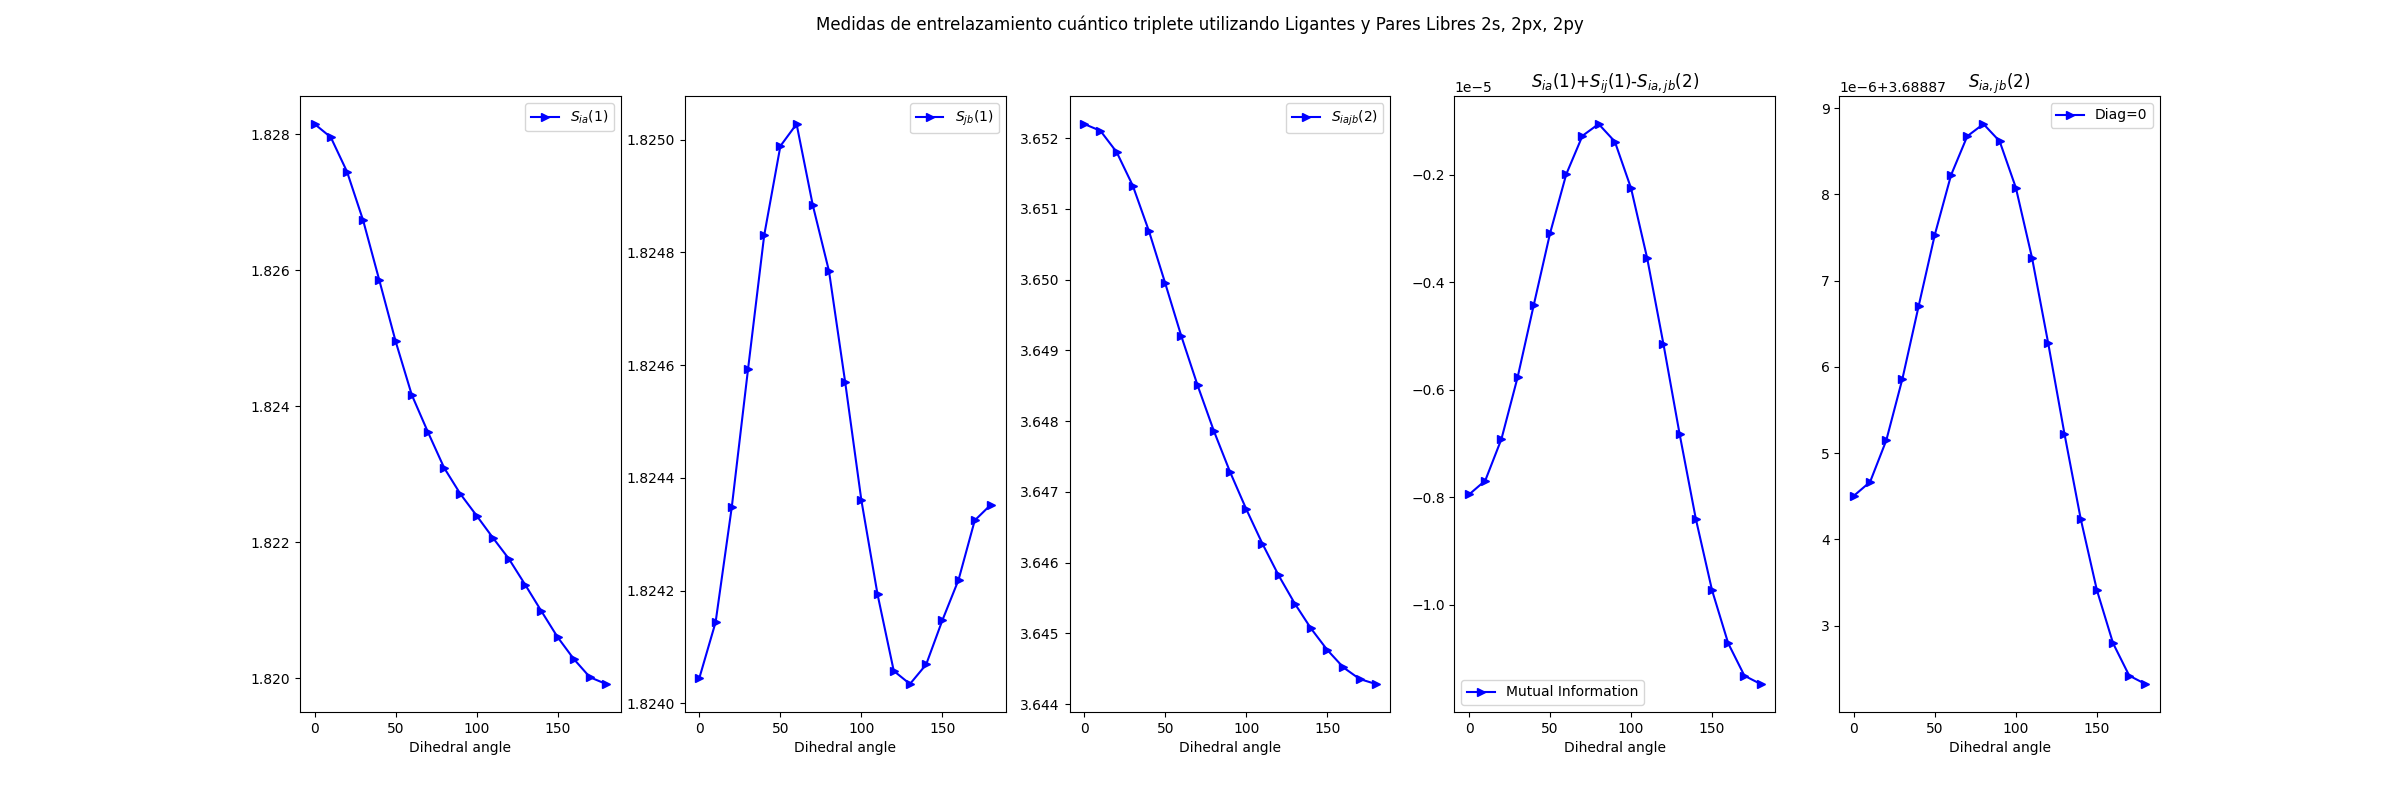
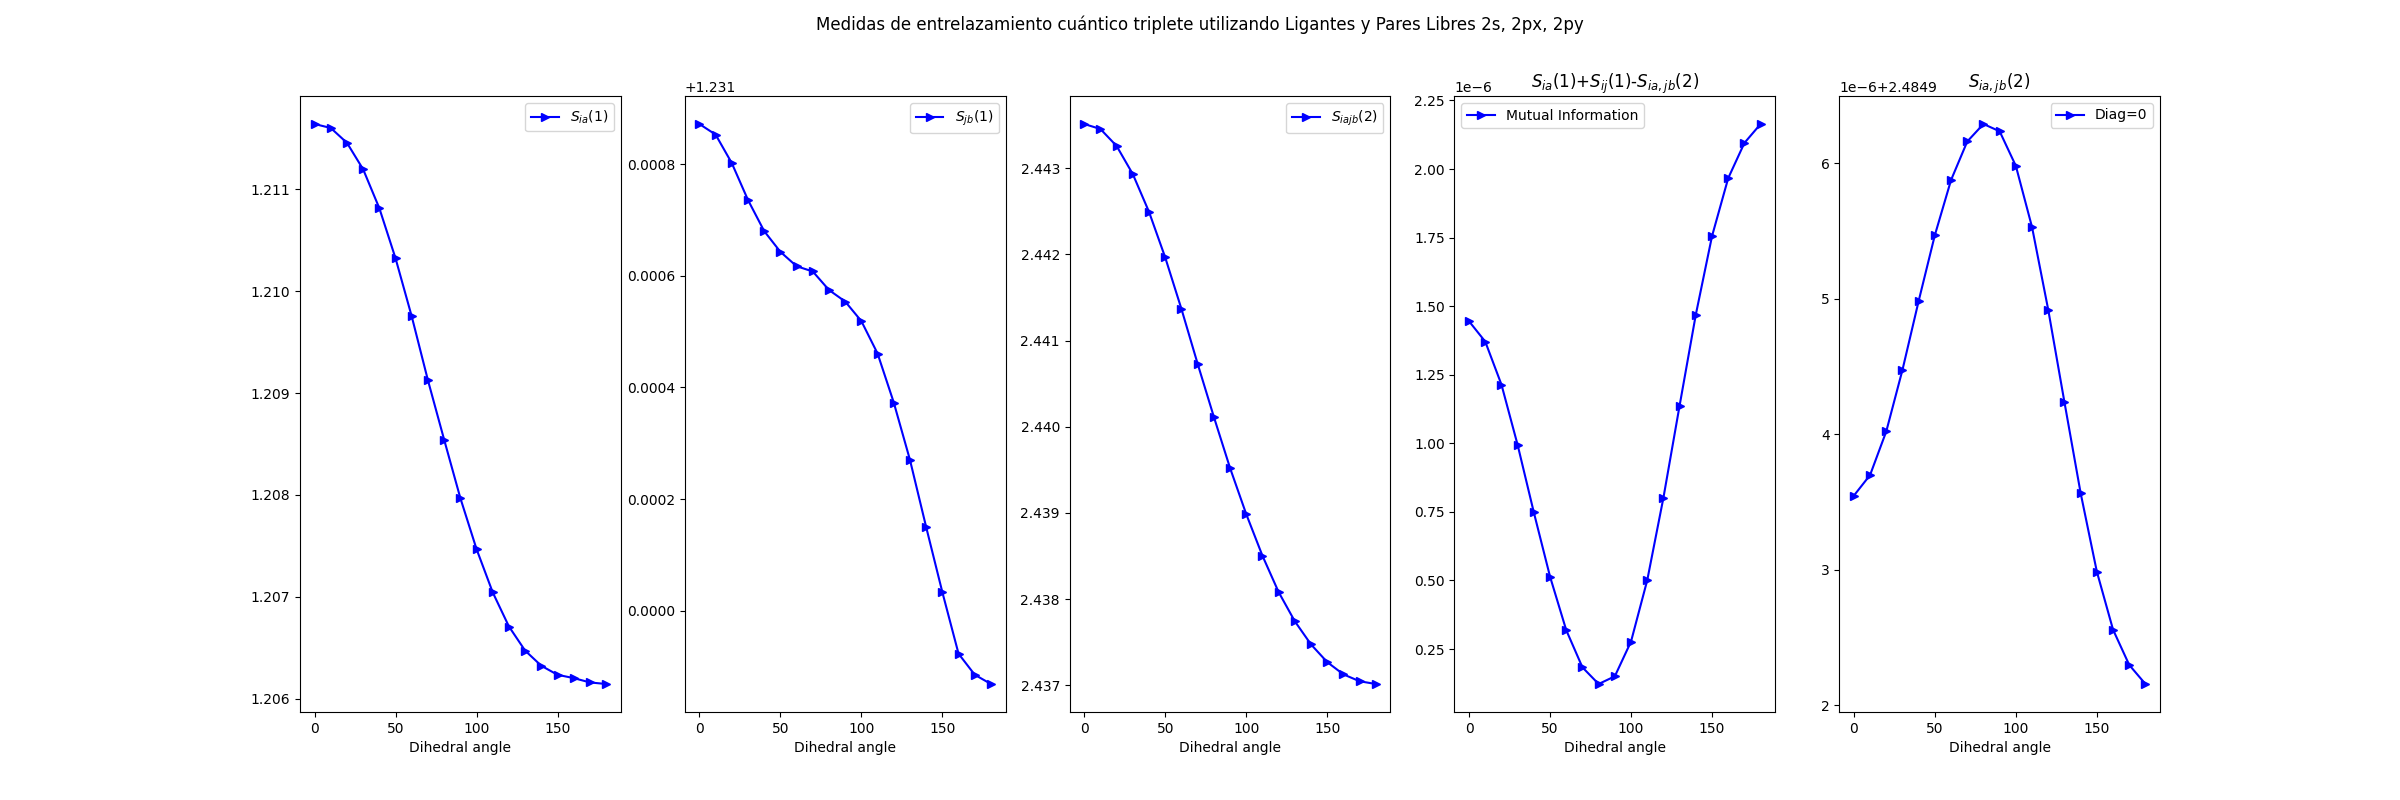
better graphs

diff --git a/C2H4F2_Pipek_becke/mutual_inf_C2H4F2_5columns.py b/C2H4F2_Pipek_becke/mutual_inf_C2H4F2_5columns.py
@@ -52,16 +52,16 @@ v5_2 = [46, 51, 50, 49, 50, 44, 50, 49, 51, 49, 51, 50, 51, 49, 48, 49, 49, 50, 
 for ang in range(0,19,1):
     mol, mo_coeff, mo_occ = extra_functions(molden_file=f"C2H4F2_{ang*10}_ccpvdz_Cholesky_PM.molden").extraer_coeff
 
-    occ = [lig1[ang], par_lib_1[ang],par_libx_1[ang], par_liby_1[ang],   
-           lig2[ang], par_lib_2[ang],par_libx_2[ang], par_liby_2[ang] ]
+    occ = [lig1[ang], par_lib_1[ang],#par_libx_1[ang], par_liby_1[ang],   
+           lig2[ang], par_lib_2[ang]]#,par_libx_2[ang], par_liby_2[ang] ]
     vir = [v1_1[ang],v2_1[ang], v3_1[ang], v4_1[ang], v5_1[ang],  
            v1_2[ang],v2_2[ang], v3_2[ang], v4_2[ang], v5_2[ang]]
     m_obj = M_matrix(occ=occ, vir=vir, mo_coeff=mo_coeff, mol=mol, mo_occ=mo_occ)
     ent_iajb = m_obj.entropy_ab  
-    ent_ia = m_obj.entropy_iaia
-    ent_jb = m_obj.entropy_jbjb
+    ent_ia = m_obj.entropy_iaia  
+    ent_jb = m_obj.entropy_jbjb  
     ent_iajb_diag0 = m_obj.entropy_iajb
-    mutual = ent_ia + ent_jb - ent_iajb
+    mutual = -ent_ia - ent_jb + ent_iajb
     with open(text, 'a') as f:
         f.write(f'{ang*10} {ent_ia} {ent_iajb} {ent_jb} {mutual} {ent_iajb_diag0} \n') 
 
@@ -85,13 +85,14 @@ ax3.set_xlabel('Dihedral angle')
 ax3.legend()
 ax4.plot(df.ang, df.mutual, 'b>-', label=r'Mutual Information') #f'a={orb1} b={orb2}')
 ax4.set_xlabel('Dihedral angle')
-ax4.set_title(r'$S_{ia}(1)$+$S_{ij}(1)$-$S_{ia,jb}(2)$')
+#ax4.set_title(r'$S_{ia}(1)$+$S_{ij}(1)$-$S_{ia,jb}(2)$')
+ax4.set_title('I')
 ax4.legend()
 ax5.plot(df.ang, df.diag0, 'b>-', label=r'Diag=0') #f'a={orb1} b={orb2}')
 ax5.set_xlabel('Dihedral angle')
 ax5.set_title(r'$S_{ia,jb}(2)$ ')
 ax5.legend()
 
-plt.suptitle(r'Medidas de entrelazamiento cuántico triplete utilizando Ligantes y Pares Libres 2s, 2px, 2py')#, 2p$_y$ y 2p$_z$')
-plt.savefig('C2H4F2_entanglement_triplet_lig_PL2s_2pxy.png')
+plt.suptitle(r'Quantum entanglement measures using lingants and free pairs')#, 2p$_y$ y 2p$_z$')
+plt.savefig('C2H4F2_entanglement_triplet__.png')
 plt.show()  

diff --git a/C2H4F2_Pipek_becke/mutual_inf_singlet_C2H4F2_5columns.py b/C2H4F2_Pipek_becke/mutual_inf_singlet_C2H4F2_5columns.py
@@ -52,8 +52,8 @@ v5_2 = [46, 51, 50, 49, 50, 44, 50, 49, 51, 49, 51, 50, 51, 49, 48, 49, 49, 50, 
 for ang in range(0,19,1):
     mol, mo_coeff, mo_occ = extra_functions(molden_file=f"C2H4F2_{ang*10}_ccpvdz_Cholesky_PM.molden").extraer_coeff
 
-    occ = [lig1[ang],par_liby_1[ang],par_libx_1[ang] ,# , ,    # lig1[ang] ,
-           lig2[ang],par_liby_2[ang],par_libx_2[ang]]#, par_libx_2[ang], par_liby_2[ang] ]  #  lig2[ang] ,
+    occ = [par_liby_1[ang],par_libx_1[ang],lig1[ang], par_lib_1[ang],# , ,    # lig1[ang] ,
+           par_liby_2[ang],par_libx_2[ang],lig2[ang], par_lib_2[ang]]#, par_libx_2[ang], par_liby_2[ang] ]  #  lig2[ang] ,
     vir = [v1_1[ang],v2_1[ang], v3_1[ang], v4_1[ang], v5_1[ang],  
            v1_2[ang],v2_2[ang], v3_2[ang], v4_2[ang], v5_2[ang]]
     m_obj = M_matrix(occ=occ, vir=vir, mo_coeff=mo_coeff, mol=mol, mo_occ=mo_occ, triplet=False)
@@ -61,7 +61,7 @@ for ang in range(0,19,1):
     ent_ia = m_obj.entropy_iaia
     ent_jb = m_obj.entropy_jbjb
     ent_iajb_diag0 = m_obj.entropy_iajb
-    mutual = ent_ia + ent_jb - ent_iajb
+    mutual = -ent_ia - ent_jb + ent_iajb
     with open(text, 'a') as f:
         f.write(f'{ang*10} {ent_ia} {ent_iajb} {ent_jb} {mutual} {ent_iajb_diag0} \n') 
 
@@ -92,6 +92,6 @@ ax5.set_xlabel('Dihedral angle')
 ax5.set_title(r'$S_{ia,jb}(2)$ ')
 ax5.legend()
 
-plt.suptitle(r'Medidas de entrelazamiento cuántico singlete utilizando Ligantes y PL 2pxy ')#, 2p$_y$ y 2p$_z$')
-plt.savefig('C2H4F2_entanglement_singlet_ligant_PL_pxy.png')
+plt.suptitle(r'Quantum entanglement measures with Singlet Principal Perturbator using occupied ligant and 2p$_{xy}$ free pair')#, 2p$_y$ y 2p$_z$')
+plt.savefig('C2H4F2_entanglement_singlet_ligant_PL_pxy_.png')
 plt.show()  

diff --git a/ethane/mutual_inf_ethane_5columns.py b/ethane/mutual_inf_ethane_5columns.py
@@ -45,14 +45,14 @@ for ang in range(0,19,1):
     mol_loc, mo_coeff_loc, mo_occ_loc = extra_functions(molden_file=f"C2H6_{ang*10}_ccpvdz_Cholesky_PM.molden").extraer_coeff
 
     occ = [H3_1s_occ[ang],H7_1s_occ[ang]]
-    vir = [H3_1s[ang],H3_2s[ang],H3_2pz[ang], H3_2px[ang], H3_2py[ang],
-           H7_1s[ang],H7_2s[ang],H7_2pz[ang], H7_2px[ang], H7_2py[ang]]
+    vir = [H3_1s[ang],H3_2s[ang],H3_2pz[ang],
+           H7_1s[ang],H7_2s[ang],H7_2pz[ang]]
     m_obj = M_matrix(occ=occ, vir=vir, mo_coeff=mo_coeff_loc, mol=mol_loc, mo_occ=mo_occ_loc)
     ent = m_obj.entropy_ab
     ent_iajb = m_obj.entropy_iajb  
     ent_ia = m_obj.entropy_iaia
     ent_jb = m_obj.entropy_jbjb
-    mutual = -ent_ia - ent_jb + ent
+    mutual = ent_ia + ent_jb - ent
     #print(ent_ia,ent_jb)
             #print(cruzada)
     with open(text, 'a') as f:
@@ -86,7 +86,6 @@ ax5.set_xlabel('Dihedral angle')
 ax5.set_title(r'$S_{iajb}(2)$ diag=0')
 
 #ax4.legend()
-plt.suptitle(r'''Medidas de entrelazamiento cuántico utilizando los principales antiligantes
-            y normalizado con cada $\rho$''')#, 2p$_y$ y 2p$_z$')
-plt.savefig('ethane_entanglement_normalizado_old.png')
+plt.suptitle(r'''Quantum entanglement measures between LMOs that contribute the most''')#, 2p$_y$ y 2p$_z$')
+plt.savefig('ethane_entanglement_normalizado.png')
 plt.show()  

diff --git a/C2H2F4_Pipek_Becke/entropy_triplet_iajb_c2h2f4_5column.py b/C2H2F4_Pipek_Becke/entropy_triplet_iajb_c2h2f4_5column.py
@@ -55,8 +55,8 @@ for ang in range(0,18,1):
 
     inv_prop = M_matrix(mol=mol, mo_coeff=mo_coeff, mo_occ=mo_occ,
                 occ = [  occ1[ang], occ2[ang]],
-                vir = [ v6_1[ang], v2_1[ang],v3_1[ang],v5_1[ang],v4_1[ang], #,, 
-                        v6_2[ang], v2_2[ang],v3_2[ang],v5_2[ang],v4_2[ang]]) #,,  
+                vir = [ v6_1[ang], v2_1[ang],v1_1[ang],#v5_1[ang],v4_1[ang], #,, 
+                        v6_2[ang], v2_2[ang],v1_2[ang]])#v5_2[ang],v4_2[ang]]) #,,  
     ent_iajb = inv_prop.entropy_ab
     ent_ia = inv_prop.entropy_iaia
     ent_iajb_diag0 = inv_prop.entropy_iajb
@@ -102,7 +102,9 @@ ax3.legend()
 ax4.set_xlabel('Dihedral angle')
 ax4.plot(data_J.ang, data_J.mutual, 'b>-', label='Mutual Information' )#f'a={orb1} b={orb2}')
 ax4.set_title('Mutual Information ')# f'a={orb1}, b={orb2}')
-ax4.set_title(r'$S_{ia}(1)$ + $S_{jb}(1)$ - $S_{iajb}(2)$')
+#ax4.set_title(r'$S_{ia}(1)$ + $S_{jb}(1)$ - $S_{iajb}(2)$')
+ax4.set_title(r'I')
+
 
 ax5.set_xlabel('Dihedral angle')
 ax5.plot(data_J.ang, data_J.ent_iajb_diag0, 'b>-', label=r'$Diag=0$' )#f'a={orb1} b={orb2}')

diff --git a/C2H4F2_Pipek_becke/mutual_inf_C2H4F2_4columns.py b/C2H4F2_Pipek_becke/mutual_inf_C2H4F2_4columns.py
@@ -52,10 +52,10 @@ v5_2 = [46, 51, 50, 49, 50, 44, 50, 49, 51, 49, 51, 50, 51, 49, 48, 49, 49, 50, 
 for ang in range(0,19,1):
     mol, mo_coeff, mo_occ = extra_functions(molden_file=f"C2H4F2_{ang*10}_ccpvdz_Cholesky_PM.molden").extraer_coeff
 
-    occ = [par_lib_1[ang],lig1[ang], par_libx_1[ang], par_liby_1[ang],
-           par_lib_2[ang],lig2[ang], par_libx_2[ang], par_liby_2[ang]]
-    vir = [v1_1[ang],v2_1[ang],v3_1[ang],
-           v1_2[ang],v2_2[ang],v3_2[ang]]
+    occ = [ lig1[ang],#,par_lib_1[ang],par_libx_1[ang], par_liby_1[ang],
+            lig2[ang]]#,par_lib_2[ang],par_libx_2[ang], par_liby_2[ang]]
+    vir = [v1_1[ang],v2_1[ang],v3_1[ang],#,v4_1[ang],v5_1[ang],
+           v1_2[ang],v2_2[ang],v3_2[ang]]#,v4_2[ang],v5_2[ang]]
     m_obj = M_matrix(occ=occ, vir=vir, mo_coeff=mo_coeff, mol=mol, mo_occ=mo_occ)
     ent_iajb = m_obj.entropy_ab  
     ent_ia = m_obj.entropy_iaia
